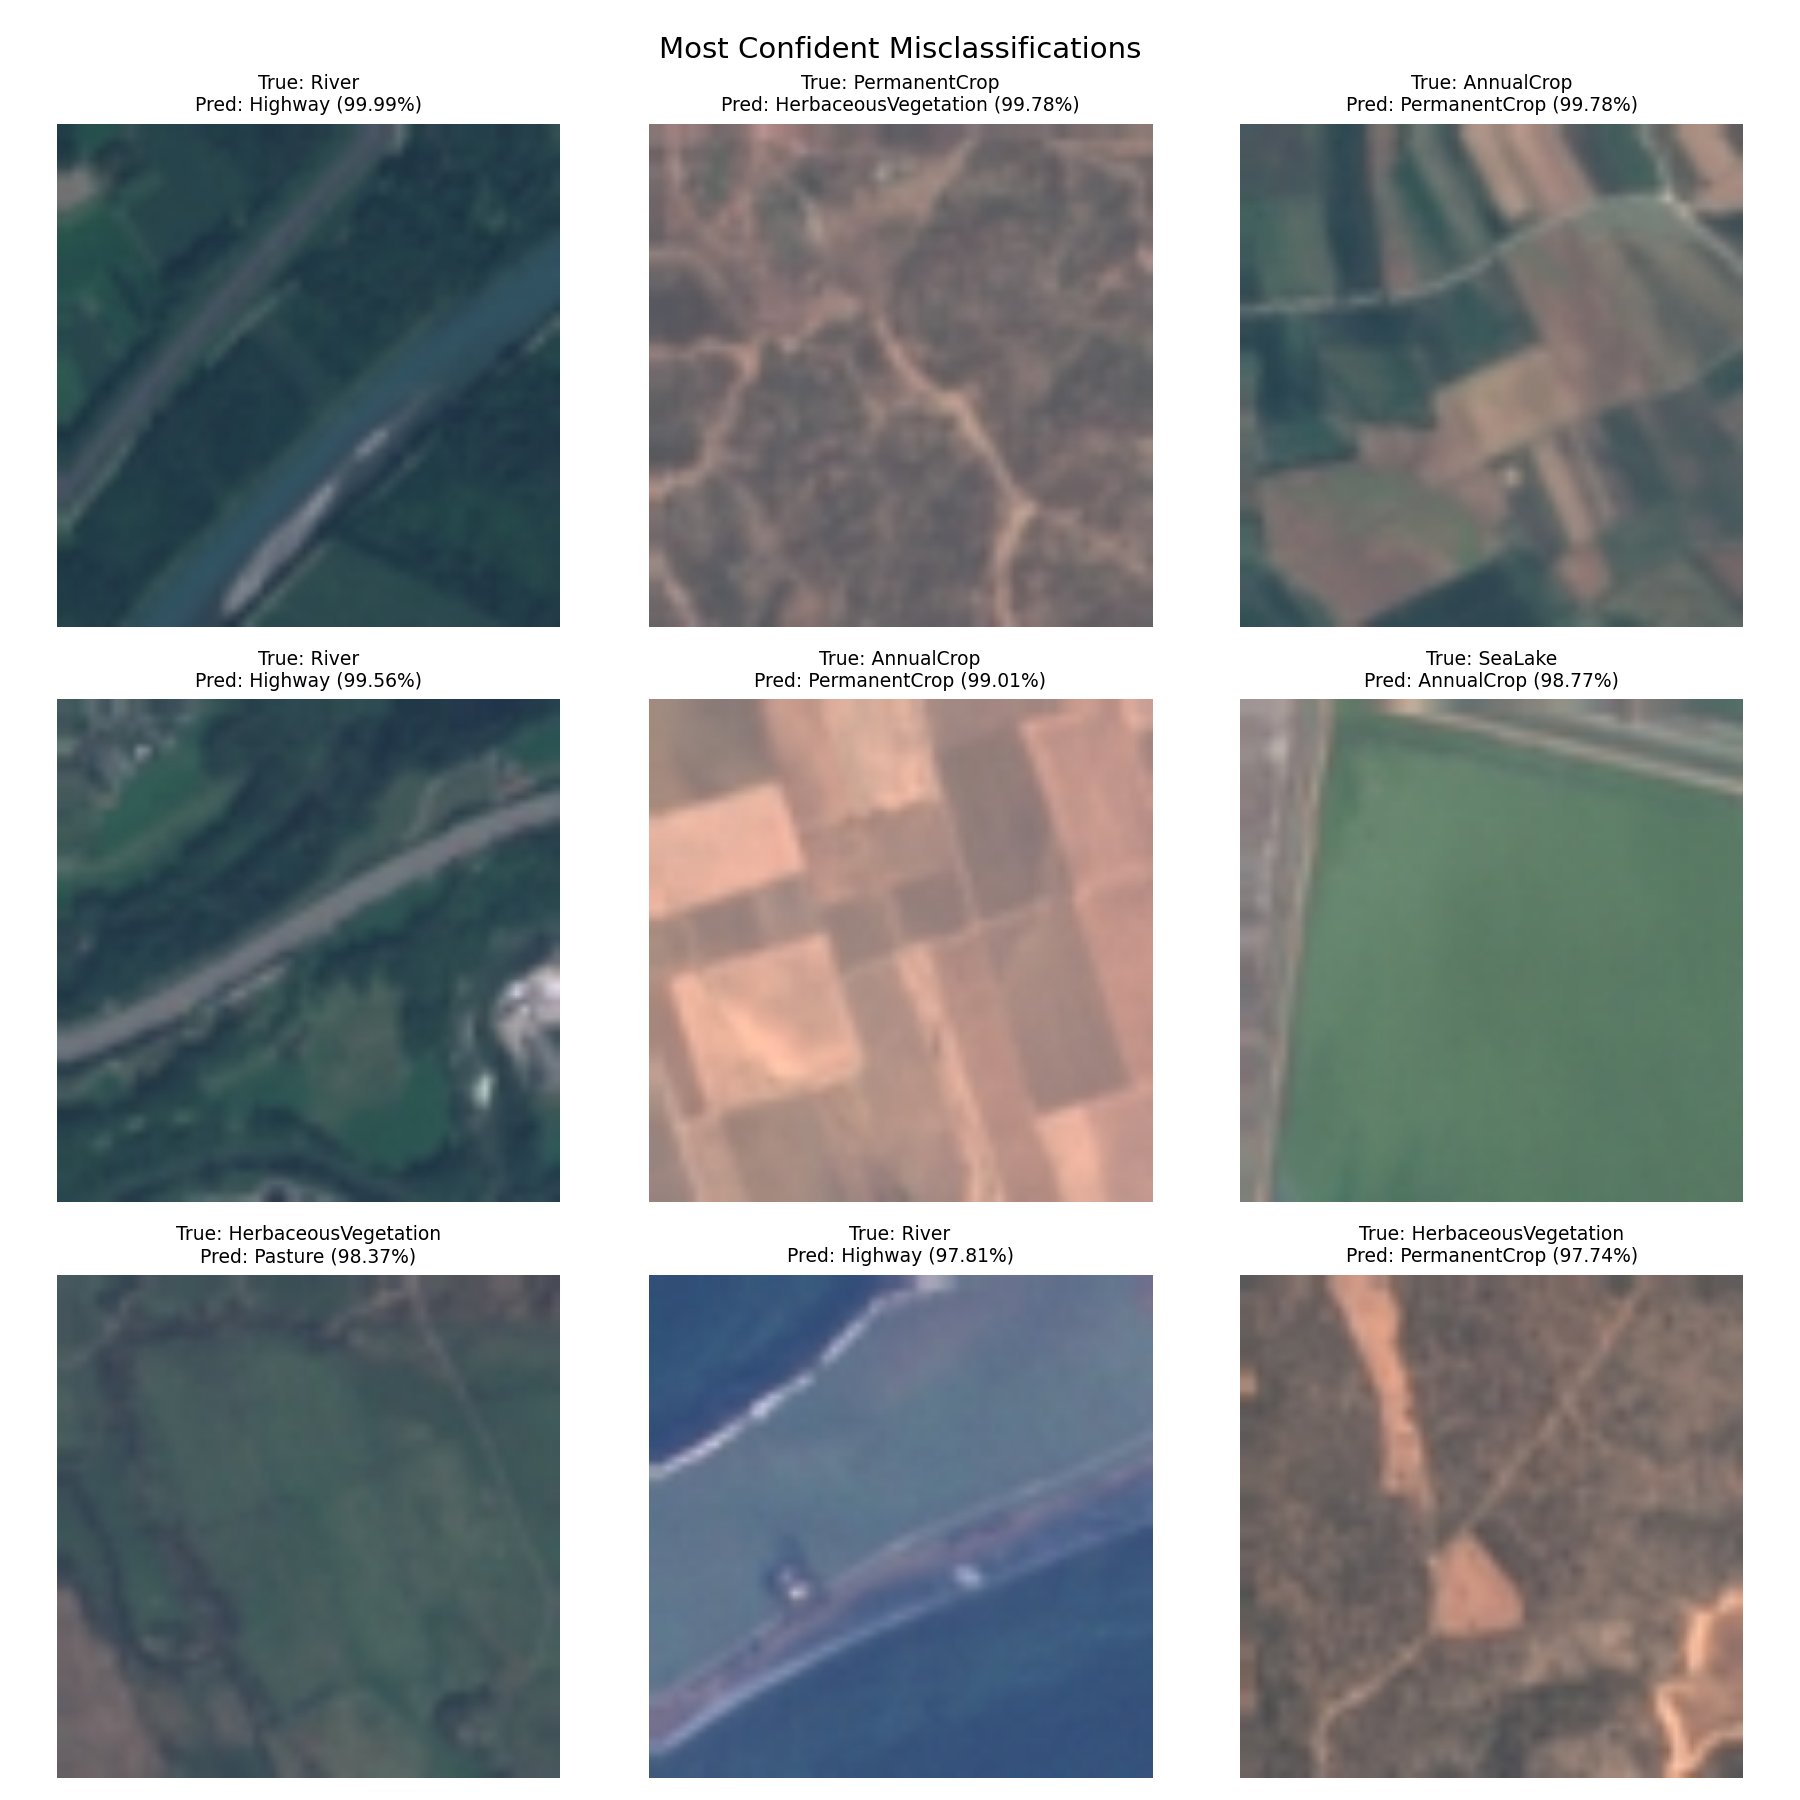
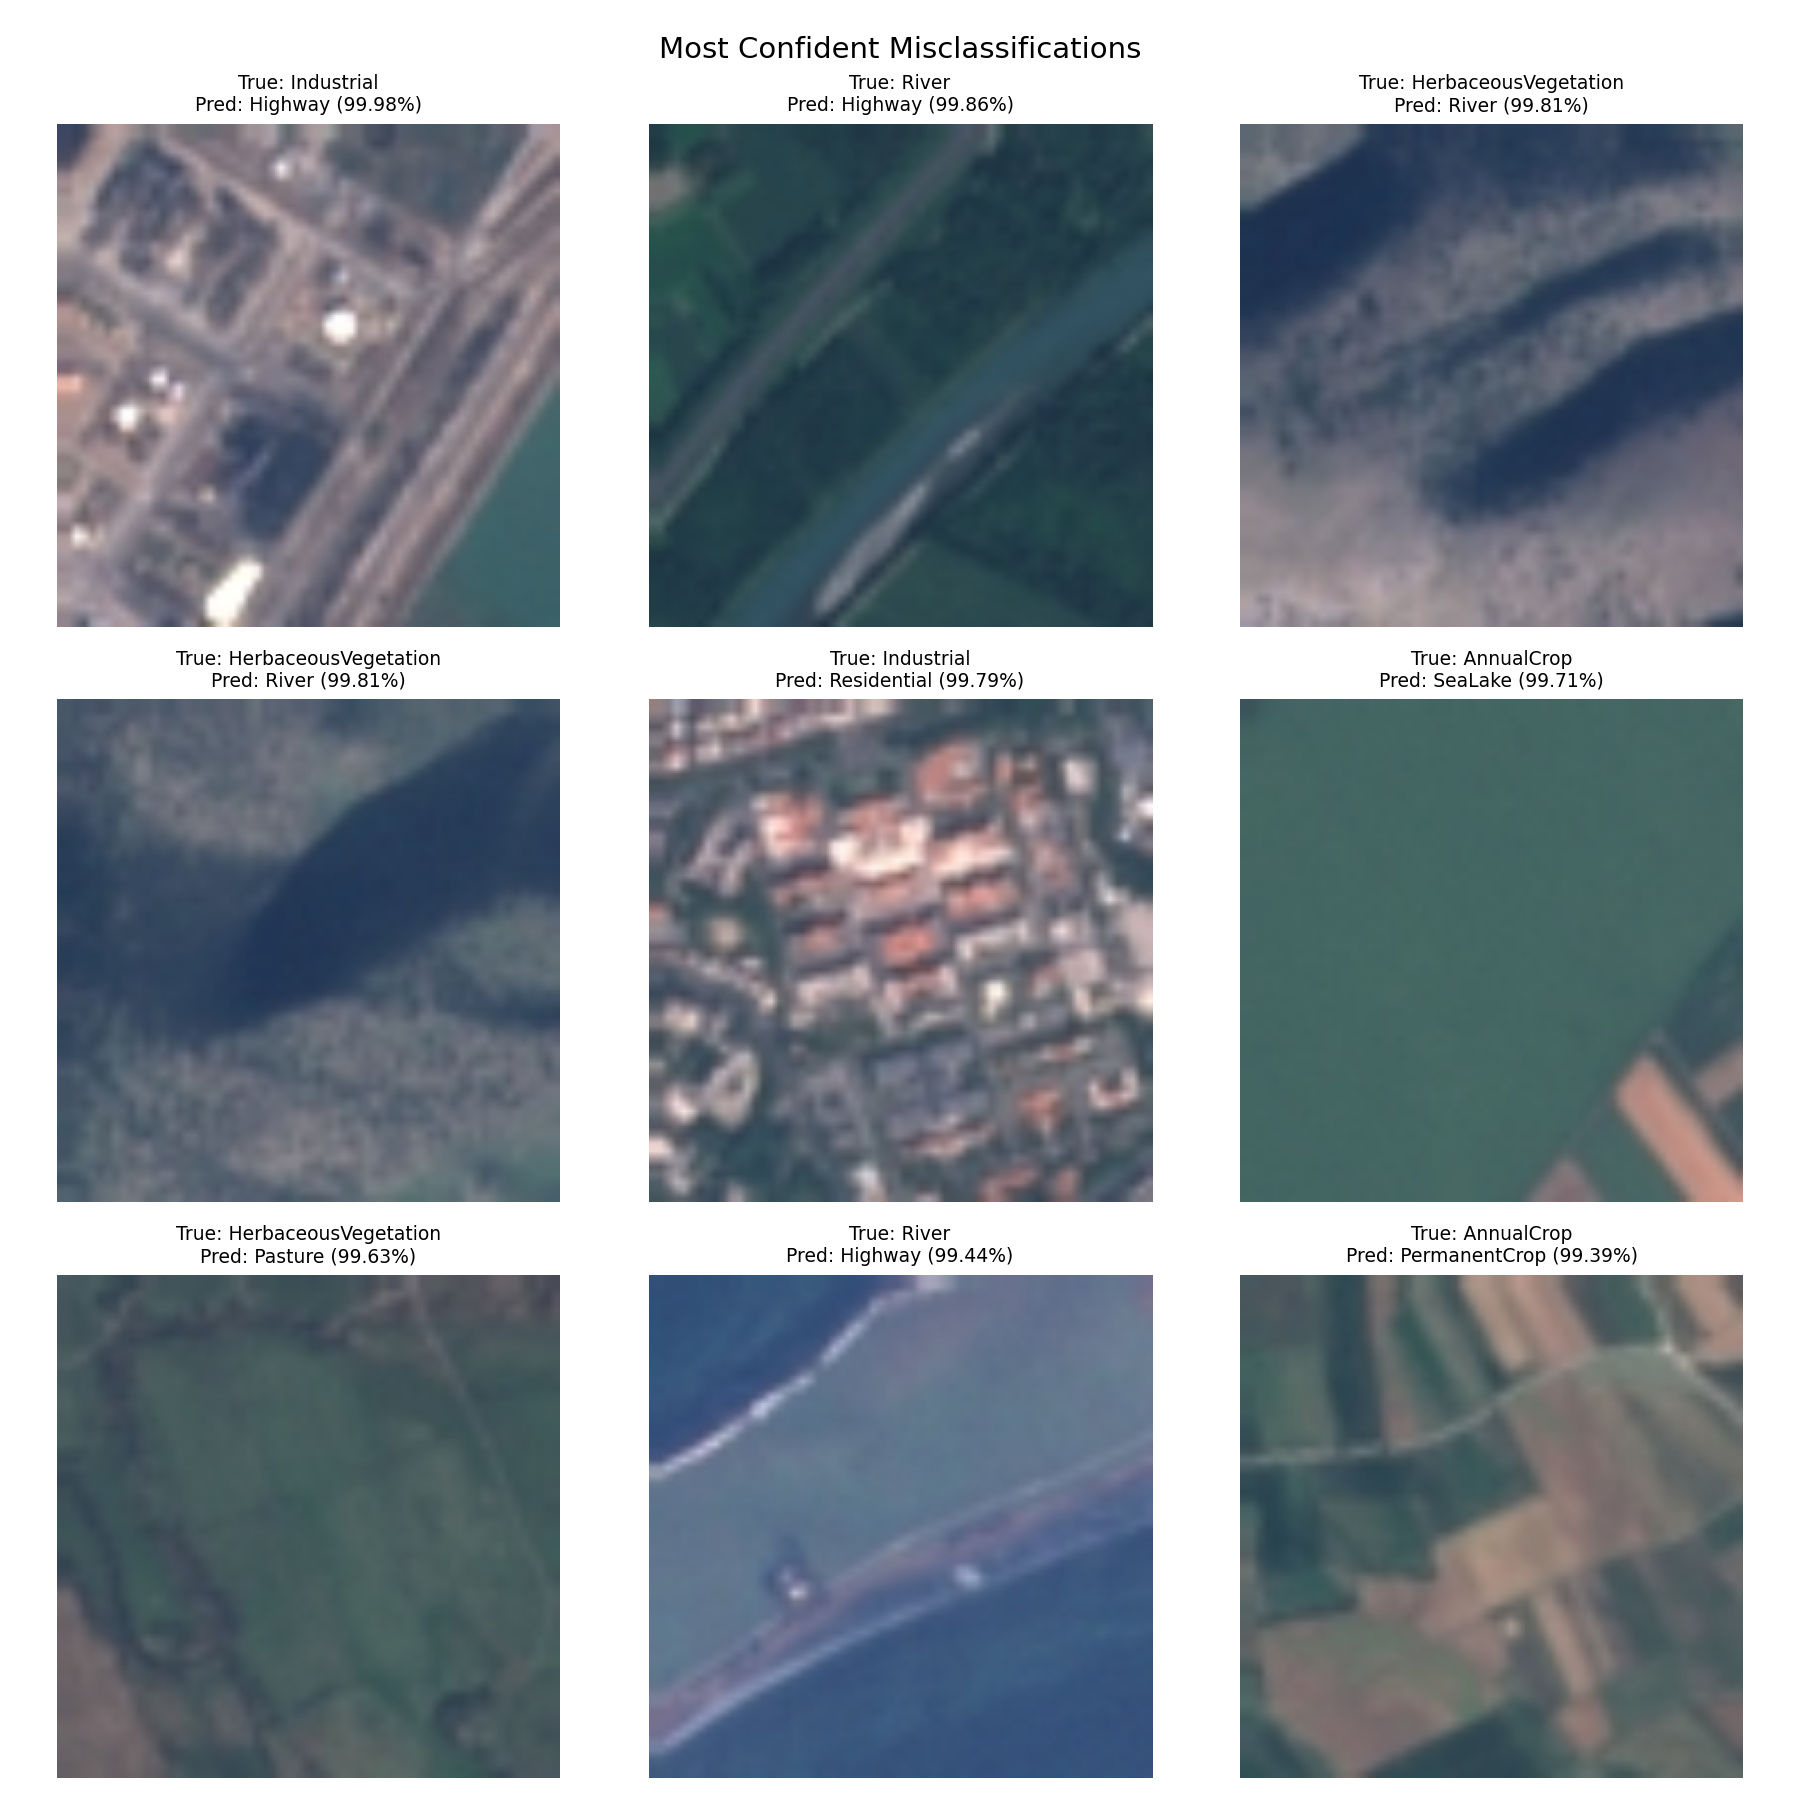
exp lr 0.01: test_acc 0.9635, Pasture precision weak spot + dirty-check fix
12-epoch budget, LR stayed at 0.01 the whole run (scheduler never fired:
needs patience+1 consecutive bad epochs). Oscillating plateau ~96% —
symptom of a too-large LR. utils.py: git_dirty now ignores pipeline
outputs (dvc.lock, metrics/) rewritten by dvc repro itself.

diff --git a/src/utils.py b/src/utils.py
@@ -28,18 +28,27 @@ def load_params(path: str = None) -> dict:
         return yaml.safe_load(f)
 
 
+# Pipeline OUTPUTS: rewritten during `dvc repro` itself, so they are always
+# "modified" while a stage runs. Only INPUT drift (code, params) invalidates
+# lineage — flagging outputs would make git_dirty fire on every legitimate run.
+_DIRTY_IGNORED = ("dvc.lock", "metrics/")
+
+
 def get_git_commit() -> tuple:
     """Return (commit_sha, is_dirty) for MLflow lineage tags.
 
-    is_dirty=True means the working tree differs from the commit, so the sha
-    alone does NOT fully identify the code that ran — the run must be flagged.
+    is_dirty=True means an INPUT (code, params) differs from the commit, so the
+    sha does NOT fully identify what ran — the run must be flagged.
     """
     sha = subprocess.check_output(
         ["git", "rev-parse", "HEAD"], cwd=REPO_ROOT, text=True
     ).strip()
-    dirty = bool(subprocess.check_output(
+    status = subprocess.check_output(
         ["git", "status", "--porcelain"], cwd=REPO_ROOT, text=True
-    ).strip())
+    ).splitlines()
+    # porcelain format: "XY path" (or "XY old -> new" for renames)
+    dirty_paths = [line[3:].split(" -> ")[-1] for line in status if line.strip()]
+    dirty = any(not p.startswith(_DIRTY_IGNORED) for p in dirty_paths)
     return sha, dirty
 
 
